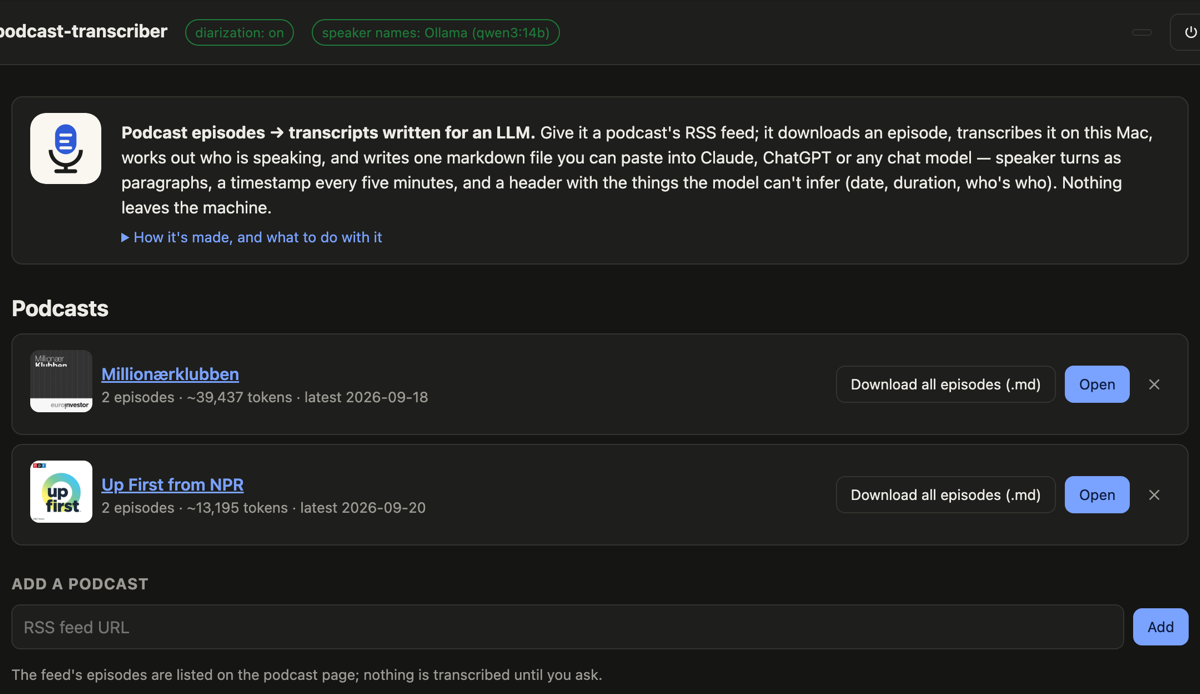
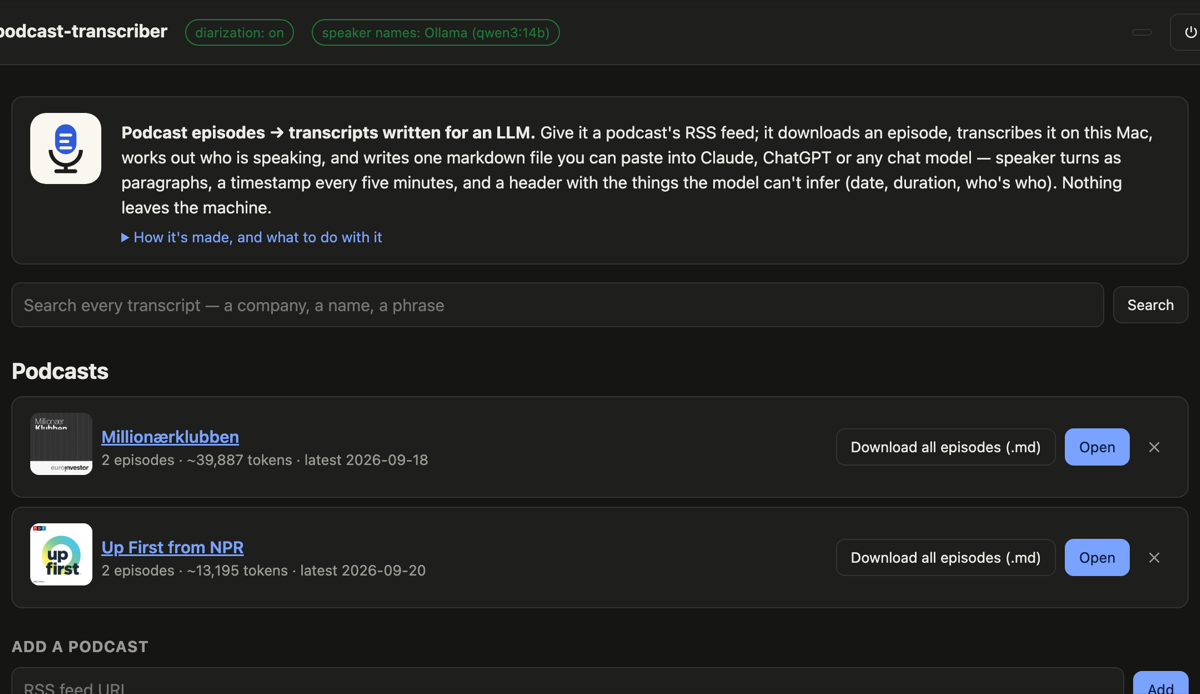
Podcast Transcriber: description and thumbnail updated to the current README and UI

diff --git a/index.html b/index.html
@@ -489,7 +489,7 @@
         <li class="app has-thumb">
           <figure class="thumb"><img src="img/podcast-transcriber.png" alt="Podcast Transcriber web UI listing two podcasts with episode counts and token totals" loading="lazy"></figure>
           <h3>Podcast Transcriber</h3>
-          <p>Give it a podcast's RSS feed and it turns an episode into one Markdown file you can paste into Claude, ChatGPT or any chat model: speaker turns as paragraphs, a timestamp every five minutes, and a header with the date, duration and who's who. Whisper large-v3 runs on the Apple GPU, pyannote works out who is speaking, and a local LLM (or Claude) turns "SPEAKER_03" into a name. Built for Danish, works for any Whisper language. Terminal, browser or Mac app — nothing leaves the machine.</p>
+          <p>Give it a podcast's RSS feed and it turns each episode into one Markdown file written for a chat model: speaker turns as paragraphs, a labelled chapter every five minutes, and a header with the date, who's who, a short summary and topic tags. An hour of talk is about 20k tokens. Whisper large-v3 runs on the Apple GPU, pyannote separates the voices, and a local LLM (or Claude) names them and writes the summary. Search any phrase across every transcript and play that moment of the audio to check a quote; new episodes can transcribe themselves hourly. Built for Danish, works for any language Whisper knows. Terminal, browser or Mac app — nothing leaves the machine.</p>
           <div class="tags"><span class="tag">Podcast to text</span><span class="tag">Whisper + LLM</span><span class="tag">macOS</span><span class="tag">Runs locally</span></div>
           <a class="button soon" href="mailto:github@schuleit.dk?subject=Access%20request%3A%20Podcast%20Transcriber&amp;body=Hi%20Alex%2C%0A%0AI%27d%20like%20access%20to%3A%20Podcast%20Transcriber%0AMy%20GitHub%20profile%20name%3A%20%0A%0AThanks">Request access</a>
         </li>
